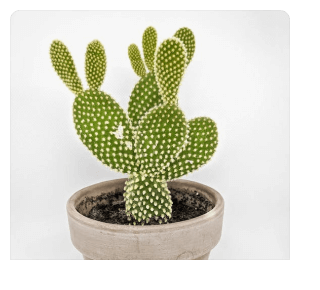
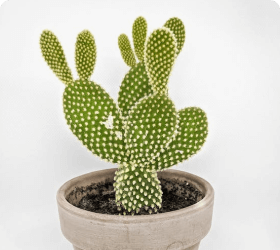
modify products image

diff --git a/index.html b/index.html
@@ -98,10 +98,12 @@
                 <ul class="products__list">
                     <li class="products__item">
                         <div class="img-btn__wrapper">
-                            <label class="visually-hidden" for="like"></label>
-                            <input class="like__input" type="radio" name="like" id="like">
+                            <form action="#" method="GET">
+                                <label class="visually-hidden" for="like"></label>
+                                <input class="like__input" type="radio" name="like" id="like">
+                            </form>
 
-                            <img class="products__img" src="./img/cactus.png" alt="cactus plant" width="280" height="250" srcset="./img/cactus.png 1x, ./img/cactus@2x.png 2x">
+                            <img class="products__img" src="./img/cactus.png" alt="cactus plant" width="280" height="250" srcset="./img/cactus.png 1x, ./img/cactus@2x.jpg 2x" >
                         </div>
                         <div class="products__info__content">
                             <div class="products__info__wrapper">
@@ -117,10 +119,12 @@
 
                     <li class="products__item">
                         <div class="img-btn__wrapper">
-                            <label class="visually-hidden" for="like1"></label>
-                            <input class="like__input" type="radio" name="like" id="like1">
+                            <form action="">
+                                <label class="visually-hidden" for="like1"></label>
+                                <input class="like__input" type="radio" name="like" id="like1">
+                            </form>
 
-                            <img class="products__img" src="./img/cactus.png" alt="cactus plant" width="280" height="250" srcset="./img/cactus.png 1x, ./img/cactus@2x.png 2x">
+                            <img class="products__img" src="./img/tolgul.jpg" alt="tolgul plant" width="280" height="250" srcset="./img/tolgul.jpg 1x, ./img/tolgul@2x.jpg 2x">
                         </div>
                         <div class="products__info__content">
                             <div class="products__info__wrapper">
@@ -136,10 +140,12 @@
 
                     <li class="products__item">
                         <div class="img-btn__wrapper">
-                            <label class="visually-hidden" for="like2"></label>
-                            <input class="like__input" type="radio" name="like" id="like2">
+                            <form action="">
+                                <label class="visually-hidden" for="like2"></label>
+                                <input class="like__input" type="radio" name="like" id="like2">
+                            </form>
 
-                            <img class="products__img" src="./img/cactus.png" alt="cactus plant" width="280" height="250" srcset="./img/cactus.png 1x, ./img/cactus@2x.png 2x">
+                            <img class="products__img" src="./img/leaves.jpg" alt="leaves plant" width="280" height="250" srcset="./img/leaves.jpg 1x, ./img/leaves@2x.jpg 2x">
                         </div>
                         <div class="products__info__content">
                             <div class="products__info__wrapper">
@@ -155,10 +161,12 @@
 
                     <li class="products__item">
                         <div class="img-btn__wrapper">
-                            <label class="visually-hidden" for="like3"></label>
-                            <input class="like__input" type="radio" name="like" id="like3">
+                            <form action="">
+                                <label class="visually-hidden" for="like3"></label>
+                                <input class="like__input" type="radio" name="like" id="like3">
+                            </form>
 
-                            <img class="products__img" src="./img/cactus.png" alt="cactus plant" width="280" height="250" srcset="./img/cactus.png 1x, ./img/cactus@2x.png 2x">
+                            <img class="products__img" src="./img/cactus-one.jpg" alt="cactus-one plant" width="280" height="250" srcset="./img/cactus-one.jpg 1x, ./img/cactus-one@2x.jpg 2x">
                         </div>
                         <div class="products__info__content">
                             <div class="products__info__wrapper">
@@ -174,10 +182,12 @@
 
                     <li class="products__item">
                         <div class="img-btn__wrapper">
-                            <label class="visually-hidden" for="like4"></label>
-                            <input class="like__input" type="radio" name="like" id="like4">
+                            <form action="">
+                                <label class="visually-hidden" for="like4"></label>
+                                <input class="like__input" type="radio" name="like" id="like4">
+                            </form>
 
-                            <img class="products__img" src="./img/cactus.png" alt="cactus plant" width="280" height="250" srcset="./img/cactus.png 1x, ./img/cactus@2x.png 2x">
+                            <img class="products__img" src="./img/nihol.jpg" alt="nihol plant" width="280" height="250" srcset="./img/nihol.jpg 1x, ./img/nihol@2x.jpg 2x">
                         </div>
                         <div class="products__info__content">
                             <div class="products__info__wrapper">
@@ -193,10 +203,12 @@
 
                     <li class="products__item">
                         <div class="img-btn__wrapper">
-                            <label class="visually-hidden" for="like5"></label>
-                            <input class="like__input" type="radio" name="like" id="like5">
+                            <form action="">
+                                <label class="visually-hidden" for="like5"></label>
+                                <input class="like__input" type="radio" name="like" id="like5">
+                            </form>
 
-                            <img class="products__img" src="./img/cactus.png" alt="cactus plant" width="280" height="250" srcset="./img/cactus.png 1x, ./img/cactus@2x.png 2x">
+                            <img class="products__img" src="./img/tree.jpg" alt="tree plant" width="280" height="250" srcset="./img/tree.jpg 1x, ./img/tree@2x.jpg 2x">
                         </div>
                         <div class="products__info__content">
                             <div class="products__info__wrapper">
@@ -212,10 +224,12 @@
 
                     <li class="products__item">
                         <div class="img-btn__wrapper">
-                            <label class="visually-hidden" for="like6"></label>
-                            <input class="like__input" type="radio" name="like" id="like6">
+                            <form action="">
+                                <label class="visually-hidden" for="like6"></label>
+                                <input class="like__input" type="radio" name="like" id="like6">
+                            </form>
 
-                            <img class="products__img" src="./img/cactus.png" alt="cactus plant" width="280" height="250" srcset="./img/cactus.png 1x, ./img/cactus@2x.png 2x">
+                            <img class="products__img" src="./img/yaproq.jpg" alt="yaproq plant" width="280" height="250" srcset="./img/yaproq.jpg 1x, ./img/yaproq@2x.jpg 2x">
                         </div>
                         <div class="products__info__content">
                             <div class="products__info__wrapper">
@@ -231,10 +245,12 @@
 
                      <li class="products__item">
                         <div class="img-btn__wrapper">
-                            <label class="visually-hidden" for="like7"></label>
-                            <input class="like__input" type="radio" name="like" id="like7">
+                            <form action="">
+                                <label class="visually-hidden" for="like7"></label>
+                                <input class="like__input" type="radio" name="like" id="like7">
+                            </form>
 
-                            <img class="products__img" src="./img/cactus.png" alt="cactus plant" width="280" height="250" srcset="./img/cactus.png 1x, ./img/cactus@2x.png 2x">
+                            <img class="products__img" src="./img/aloe.jpg" alt="aloe plant" width="280" height="250" srcset="./img/aloe.jpg 1x, ./img/aloe@2x.jpg 2x">
                         </div>
                         <div class="products__info__content">
                             <div class="products__info__wrapper">

diff --git a/css/styles.css b/css/styles.css
@@ -426,7 +426,8 @@ img {
     font-weight: 500;
 }
 
-/* Products */
+ /* Products  */
+
 .products__heading {
     text-align: center;
     margin-bottom: 35px;
@@ -436,6 +437,7 @@ img {
     display: flex;
     flex-wrap: wrap;
     margin-left: -27px;
+    list-style: none;
 }
 
 .products__item {
@@ -446,19 +448,19 @@ img {
 
 .img-btn__wrapper {
     position: relative;
-    margin-bottom: 10px;
 }
 .products__img {
     display: flex;
     width: 280px;
     height: 250px;
     object-fit: cover;
+    border-radius: 10px 10px 0px 0px;
 }
 /* Button styles */
 .like__input {
     position: absolute;
     top: 15px;
-    right: 35px;
+    right: 15px;
     appearance: none;
     width: 32px;
     height: 32px;
@@ -475,6 +477,13 @@ img {
     background-repeat: no-repeat;
     background-position: center center;
     background-size: 20px 20px;
+}
+
+/* Products info content */
+.products__info__content {
+    display: flex;
+    padding: 10px 24px;
+    background-color: var(--white-color);
 }
 
 
